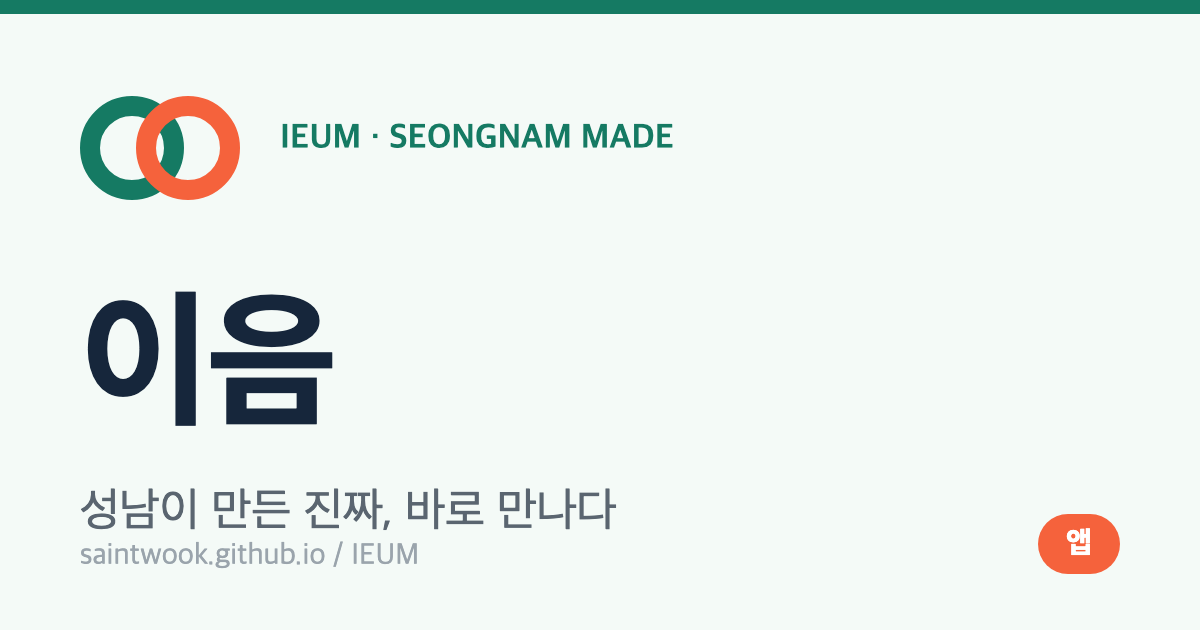
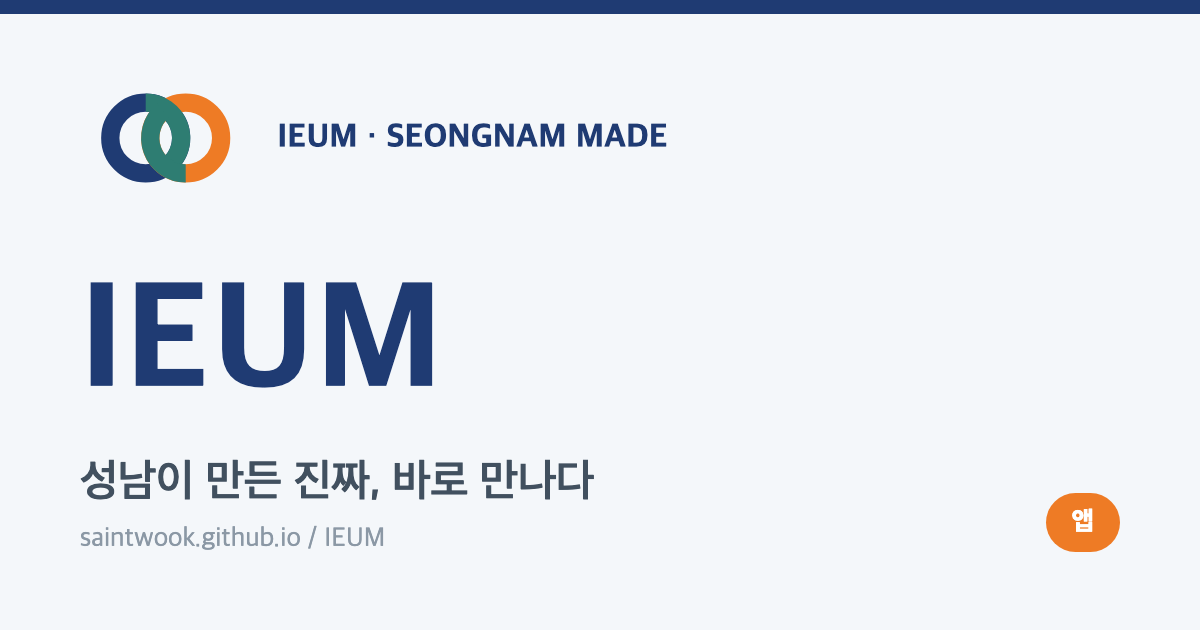
IEUM: 조합 공식 로고(남색·청록·주황 인터로킹) 적용 + 워드마크 영문 IEUM 전환
- 기존 두 원(초록/코랄) 마크 -> 실물 CI 기반 SVG 마크로 교체 (통합몰/OS/포털/관리자)
- 브랜드 표기 한글 '이음' -> 영문 IEUM (title, og, 헤더, 푸터, LIVE/WORK/PARTNER/ADMIN)
- CI 컬러 정렬: navy #1F3B73, teal #2E7D72, orange #EE7B25
- 앱 아이콘/OG 썸네일 재생성

diff --git a/index.html b/index.html
@@ -3,10 +3,10 @@
 <head>
 <meta charset="utf-8">
 <meta name="viewport" content="width=device-width, initial-scale=1, viewport-fit=cover">
-<title>이음 (IEUM)</title>
+<title>IEUM — 성남산단 상생 커머스</title>
 <meta property="og:type" content="website">
-<meta property="og:site_name" content="이음 IEUM">
-<meta property="og:title" content="이음 — 성남산단 상생 커머스">
+<meta property="og:site_name" content="IEUM">
+<meta property="og:title" content="IEUM — 성남산단 상생 커머스">
 <meta property="og:description" content="성남이 만든 진짜, 바로 만나다 · 산단 3,658개 기업 직거래 + 라이브">
 <meta property="og:image" content="https://saintwook.github.io/IEUM/og_app.png">
 <meta property="og:image:width" content="1200">
@@ -14,18 +14,18 @@
 <meta property="og:url" content="https://saintwook.github.io/IEUM/">
 <meta name="twitter:card" content="summary_large_image">
 
-<meta name="description" content="성남산단 상생 커머스 플랫폼 이음 — 사람과 기업을 잇다">
-<meta name="theme-color" content="#16263b">
+<meta name="description" content="성남산단 상생 커머스 플랫폼 IEUM — 사람과 기업을 잇다">
+<meta name="theme-color" content="#1F3B73">
 <link rel="manifest" href="manifest.json">
 <link rel="apple-touch-icon" href="apple-touch-icon.png">
 <link rel="icon" href="icon-192.png">
 <meta name="apple-mobile-web-app-capable" content="yes">
 <meta name="mobile-web-app-capable" content="yes">
 <meta name="apple-mobile-web-app-status-bar-style" content="black-translucent">
-<meta name="apple-mobile-web-app-title" content="이음">
+<meta name="apple-mobile-web-app-title" content="IEUM">
 <style>
 :root{
-  --navy:#16263b; --green:#157a63; --greenL:#e3f0eb; --coral:#f5623c; --coralL:#fff0ea;
+  --navy:#1F3B73; --green:#2E7D72; --greenL:#e3f0eb; --coral:#EE7B25; --coralL:#fff0ea;
   --sand:#f4f1ec; --ink:#20272e; --muted:#7a848d; --line:#e6e9ec; --bg:#f7f8f9; --card:#fff;
 }
 *{box-sizing:border-box;margin:0;padding:0}
@@ -42,8 +42,7 @@ a{color:inherit}
 .protobar button{background:#24384f;color:#cdd8e2;border-radius:20px;padding:6px 15px;font-size:13px;font-weight:600;display:flex;align-items:center;gap:6px}
 .protobar button.on{background:var(--coral);color:#fff}
 .protobar .brand{display:flex;align-items:center;gap:0;font-weight:800;font-size:16px;margin-right:14px}
-.ring{display:inline-block;width:16px;height:16px;border-radius:50%;border:3px solid var(--green)}
-.ring2{width:16px;height:16px;border:3px solid var(--coral);margin-left:-7px;margin-right:7px}
+.mark{height:1.6em;width:auto;display:inline-block;margin-right:9px;vertical-align:-.45em;flex:none}.mark .nv{stroke:#1F3B73}.mark .or{stroke:#EE7B25}.mark .tl{stroke:#2E7D72}.mark-dark .nv{stroke:#fff}
 .rdot{width:8px;height:8px;border-radius:50%;background:var(--coral);display:inline-block}
 .on .rdot{background:#fff}
 
@@ -61,7 +60,7 @@ a{color:inherit}
 .icobtn{background:var(--bg);border-radius:50%;width:38px;height:38px;display:flex;align-items:center;justify-content:center;position:relative}
 .cartbadge{position:absolute;top:-3px;right:-3px;background:var(--coral);color:#fff;font-size:10px;font-weight:800;min-width:17px;height:17px;border-radius:9px;display:flex;align-items:center;justify-content:center;padding:0 4px}
 
-.hero{background:linear-gradient(120deg,#0f5c4a,#157a63 55%,#1f8f74);color:#fff;border-radius:18px;padding:34px 32px;position:relative;overflow:hidden}
+.hero{background:linear-gradient(120deg,#0f5c4a,#2E7D72 55%,#1f8f74);color:#fff;border-radius:18px;padding:34px 32px;position:relative;overflow:hidden}
 .hero .tag{display:inline-block;background:rgba(255,255,255,.16);padding:4px 12px;border-radius:20px;font-size:12px;font-weight:600;margin-bottom:12px}
 .hero h1{font-size:30px;font-weight:800;letter-spacing:-.5px;line-height:1.25}
 .hero p{margin-top:8px;color:#d5ede5;font-size:14px}
@@ -265,7 +264,7 @@ table.stl{min-width:520px}
 <body>
 
 <div class="protobar">
-  <span class="brand"><span class="ring"></span><span class="ring2"></span>이음</span>
+  <span class="brand"><svg class="mark mark-dark" viewBox="0 0 300 210" fill="none" stroke-width="32" aria-hidden="true"><circle class="nv" cx="115" cy="105" r="62"/><circle class="or" cx="185" cy="105" r="62"/><path class="tl" d="M115 43A62 62 0 0 1 154.9 152.5"/><path class="tl" d="M185 167A62 62 0 0 1 145.1 57.5"/></svg>IEUM</span>
   <span class="lbl">화면 미리보기</span>
   <button class="on" data-v="shop" onclick="sw('shop',this)">통합몰</button>
   <button data-v="live" onclick="sw('live',this)"><span class="rdot"></span>라이브</button>
@@ -277,7 +276,7 @@ table.stl{min-width:520px}
 <!-- ============ 통합몰 ============ -->
 <section id="shop" class="view on">
   <div class="shop-head"><div class="in">
-    <div class="logo" onclick="sw('shop',document.querySelector('[data-v=shop]'))"><span class="ring"></span><span class="ring2"></span>이음</div>
+    <div class="logo" onclick="sw('shop',document.querySelector('[data-v=shop]'))"><svg class="mark" viewBox="0 0 300 210" fill="none" stroke-width="32" aria-hidden="true"><circle class="nv" cx="115" cy="105" r="62"/><circle class="or" cx="185" cy="105" r="62"/><path class="tl" d="M115 43A62 62 0 0 1 154.9 152.5"/><path class="tl" d="M185 167A62 62 0 0 1 145.1 57.5"/></svg>IEUM</div>
     <div class="search">성남이 만든 우수 제품을 검색하세요</div>
     <button class="icobtn"><svg class="svgico" viewBox="0 0 24 24"><path d="M18 8a6 6 0 0 0-12 0c0 7-3 9-3 9h18s-3-2-3-9M13.7 21a2 2 0 0 1-3.4 0"/></svg></button>
     <button class="icobtn" onclick="openCart()"><svg class="svgico" viewBox="0 0 24 24"><circle cx="9" cy="21" r="1"/><circle cx="20" cy="21" r="1"/><path d="M1 1h4l2.7 13.4a2 2 0 0 0 2 1.6h9.7a2 2 0 0 0 2-1.6L23 6H6"/></svg><span class="cartbadge" id="cartBadge" style="display:none">0</span></button>
@@ -291,7 +290,7 @@ table.stl{min-width:520px}
       <div class="rings"><span style="width:200px;height:200px;right:20px;top:10px"></span><span style="width:120px;height:120px;right:120px;top:80px"></span></div>
       <span class="tag">SEONGNAM MADE · 산단 직거래</span>
       <h1>성남이 만든 진짜,<br>바로 만나다.</h1>
-      <p>3,658개 산단 기업의 우수 완제품을 중간유통 없이 — 이음</p>
+      <p>3,658개 산단 기업의 우수 완제품을 중간유통 없이 — IEUM</p>
       <button class="cta" onclick="toast('이번주 라이브 기획전으로 이동합니다')">이번주 기획전 보기 →</button>
     </div>
 
@@ -323,7 +322,7 @@ table.stl{min-width:520px}
     <div class="sec-t">오늘의 추천 상품 <span style="font-size:12px;font-weight:500;color:var(--muted)">— 상품을 눌러 상세 페이지를 보세요</span></div>
     <div class="grid" id="prodGrid"></div>
 
-    <div class="foot">이음 (IEUM) · 성남상생협동조합 운영 · 사람과 기업을 잇다 &nbsp;|&nbsp; 프로토타입 화면입니다</div>
+    <div class="foot">IEUM · 성남상생협동조합 운영 · 사람과 기업을 잇다 &nbsp;|&nbsp; 프로토타입 화면입니다</div>
   </div>
 </section>
 
@@ -387,7 +386,7 @@ table.stl{min-width:520px}
   <div class="done">
     <div class="ok"><svg width="30" height="30" viewBox="0 0 24 24" fill="none" stroke="currentColor" stroke-width="3" stroke-linecap="round" stroke-linejoin="round"><path d="M4 12l5 5L20 6"/></svg></div>
     <h2>주문이 완료되었습니다</h2>
-    <p>이음에서 성남 우수 제품을 구매해 주셔서 감사합니다.</p>
+    <p>IEUM에서 성남 우수 제품을 구매해 주셔서 감사합니다.</p>
     <div class="num">주문번호 IEUM-2026-000312</div>
     <p style="font-size:12px">이 주문의 매출·정산은 관리자·입점기업 화면에 자동 반영됩니다.</p>
     <button class="checkout" style="max-width:260px;margin:18px auto 0" onclick="sw('shop',document.querySelector('[data-v=shop]'))">계속 쇼핑하기</button>
@@ -396,7 +395,7 @@ table.stl{min-width:520px}
 
 <!-- ============ 라이브 ============ -->
 <section id="live" class="view">
-  <div class="ptitle" style="margin-top:16px">이음 LIVE — 실시간 판매</div>
+  <div class="ptitle" style="margin-top:16px">IEUM LIVE — 실시간 판매</div>
   <div class="phones">
     <div class="phone"><div class="notch"></div><div class="scr">
       <div class="lv-video">
@@ -411,7 +410,7 @@ table.stl{min-width:520px}
       <div class="lv-chat">
         <div class="m"><b>소비자1</b> 저번에 사고 재구매해요!</div>
         <div class="m"><b>소비자2</b> 배송 얼마나 걸리나요?</div>
-        <div class="m"><b>이음</b> 오늘 주문 시 내일 출고됩니다</div>
+        <div class="m"><b>IEUM</b> 오늘 주문 시 내일 출고됩니다</div>
       </div>
     </div></div>
     <div style="max-width:320px">
@@ -419,7 +418,7 @@ table.stl{min-width:520px}
         <h3>이 화면의 작동 원리</h3>
         <ul style="font-size:13px;color:#44505c;line-height:1.7;padding-left:18px">
           <li><b>영상</b>은 네이버쇼핑라이브·그립을 <b>임베드</b> (자체 개발 X)</li>
-          <li><b>‘바로 구매’ 주문</b>은 이음 <b>정산 코어</b>로 수집</li>
+          <li><b>‘바로 구매’ 주문</b>은 IEUM <b>정산 코어</b>로 수집</li>
           <li>재고 자동 차감 · <b>방송별 매출·정산</b> 자동 집계</li>
           <li>방송 종료 시 → 관리자 화면에 기업별 정산 반영</li>
         </ul>
@@ -431,11 +430,11 @@ table.stl{min-width:520px}
 
 <!-- ============ 복지몰 ============ -->
 <section id="work" class="view">
-  <div class="ptitle" style="margin-top:16px">이음 워크 — 근로자 복지몰</div>
+  <div class="ptitle" style="margin-top:16px">IEUM WORK — 근로자 복지몰</div>
   <div class="phones">
     <div class="phone"><div class="notch"></div><div class="scr">
       <div class="wk-top">
-        <div><div class="t">이음 워크</div><div class="s">홍길동님 · ㈜위생기업사</div></div>
+        <div><div class="t">IEUM WORK</div><div class="s">홍길동님 · ㈜위생기업사</div></div>
         <div class="cert">근로자<br>인증완료</div>
       </div>
       <div class="wk-note"><b>성남사랑상품권 결제 가능</b><p>복지포인트 사용은 추후 오픈 예정 (법률검토 후)</p></div>
@@ -466,7 +465,7 @@ table.stl{min-width:520px}
 <section id="portal" class="view">
   <div class="admin">
     <div class="side">
-      <div class="lg"><span class="ring"></span><span class="ring2"></span>이음 PARTNER</div>
+      <div class="lg"><svg class="mark" viewBox="0 0 300 210" fill="none" stroke-width="32" aria-hidden="true"><circle class="nv" cx="115" cy="105" r="62"/><circle class="or" cx="185" cy="105" r="62"/><path class="tl" d="M115 43A62 62 0 0 1 154.9 152.5"/><path class="tl" d="M185 167A62 62 0 0 1 145.1 57.5"/></svg>IEUM PARTNER</div>
       <a>대시보드</a><a class="on">내 상품·재고</a><a>주문·CS</a><a>정산·세금계산서</a><a>입점 신청</a>
     </div>
     <div class="main">
@@ -508,7 +507,7 @@ table.stl{min-width:520px}
 <section id="admin" class="view">
   <div class="admin">
     <div class="side">
-      <div class="lg"><span class="ring"></span><span class="ring2"></span>이음 ADMIN</div>
+      <div class="lg"><svg class="mark" viewBox="0 0 300 210" fill="none" stroke-width="32" aria-hidden="true"><circle class="nv" cx="115" cy="105" r="62"/><circle class="or" cx="185" cy="105" r="62"/><path class="tl" d="M115 43A62 62 0 0 1 154.9 152.5"/><path class="tl" d="M185 167A62 62 0 0 1 145.1 57.5"/></svg>IEUM ADMIN</div>
       <a>대시보드</a><a>입점기업 관리</a><a>상품·SKU</a><a>주문·재고</a><a class="on">정산·세금계산서</a><a>라이브 편성</a><a>데이터 리포트</a>
     </div>
     <div class="main">
@@ -557,14 +556,14 @@ table.stl{min-width:520px}
 // ---- 상품 이미지 (SVG 일러스트, 타일 꽉 채움) ----
 var A="<svg viewBox='0 0 120 100' preserveAspectRatio='xMidYMid slice' xmlns='http://www.w3.org/2000/svg'>";
 var IMG={
- det:A+"<rect width='120' height='100' fill='#e3f0eb'/><rect x='38' y='30' width='12' height='7' rx='2' fill='#16263b'/><path d='M50 31 h10 v6 h-14 z' fill='#16263b'/><rect x='56' y='19' width='16' height='9' rx='2' fill='#16263b'/><rect x='60' y='27' width='8' height='7' fill='#16263b'/><rect x='50' y='33' width='28' height='53' rx='8' fill='#157a63'/><rect x='55' y='48' width='18' height='27' rx='3' fill='#fff'/><rect x='58' y='53' width='12' height='3' rx='1.5' fill='#a9cfc3'/><rect x='58' y='59' width='12' height='3' rx='1.5' fill='#a9cfc3'/><rect x='58' y='65' width='8' height='3' rx='1.5' fill='#a9cfc3'/></svg>",
+ det:A+"<rect width='120' height='100' fill='#e3f0eb'/><rect x='38' y='30' width='12' height='7' rx='2' fill='#1F3B73'/><path d='M50 31 h10 v6 h-14 z' fill='#1F3B73'/><rect x='56' y='19' width='16' height='9' rx='2' fill='#1F3B73'/><rect x='60' y='27' width='8' height='7' fill='#1F3B73'/><rect x='50' y='33' width='28' height='53' rx='8' fill='#2E7D72'/><rect x='55' y='48' width='18' height='27' rx='3' fill='#fff'/><rect x='58' y='53' width='12' height='3' rx='1.5' fill='#a9cfc3'/><rect x='58' y='59' width='12' height='3' rx='1.5' fill='#a9cfc3'/><rect x='58' y='65' width='8' height='3' rx='1.5' fill='#a9cfc3'/></svg>",
  tissue:A+"<rect width='120' height='100' fill='#eaf1fb'/><g stroke='#d3def0' stroke-width='1'><rect x='33' y='47' width='23' height='37' rx='3' fill='#fff'/><ellipse cx='44.5' cy='47' rx='11.5' ry='4' fill='#f4f8ff'/><rect x='64' y='47' width='23' height='37' rx='3' fill='#fff'/><ellipse cx='75.5' cy='47' rx='11.5' ry='4' fill='#f4f8ff'/><rect x='48' y='30' width='24' height='37' rx='3' fill='#fff'/><ellipse cx='60' cy='30' rx='12' ry='4.2' fill='#eef4ff'/></g><ellipse cx='60' cy='30' rx='4' ry='1.6' fill='#cdd9ec'/></svg>",
- probiotic:A+"<rect width='120' height='100' fill='#eaf7f0'/><rect x='49' y='25' width='22' height='8' rx='2' fill='#2d8a72'/><rect x='45' y='31' width='30' height='52' rx='6' fill='#3fae90'/><rect x='50' y='42' width='20' height='31' rx='3' fill='#fff'/><circle cx='60' cy='52' r='6' fill='#f5623c'/><rect x='53' y='63' width='14' height='2.6' rx='1.3' fill='#bfe0d4'/><rect x='53' y='68' width='10' height='2.6' rx='1.3' fill='#bfe0d4'/></svg>",
+ probiotic:A+"<rect width='120' height='100' fill='#eaf7f0'/><rect x='49' y='25' width='22' height='8' rx='2' fill='#2d8a72'/><rect x='45' y='31' width='30' height='52' rx='6' fill='#3fae90'/><rect x='50' y='42' width='20' height='31' rx='3' fill='#fff'/><circle cx='60' cy='52' r='6' fill='#EE7B25'/><rect x='53' y='63' width='14' height='2.6' rx='1.3' fill='#bfe0d4'/><rect x='53' y='68' width='10' height='2.6' rx='1.3' fill='#bfe0d4'/></svg>",
  ginseng:A+"<rect width='120' height='100' fill='#fbf1e0'/><rect x='79' y='38' width='7' height='40' rx='3.5' fill='#9a4426'/><rect x='41' y='30' width='33' height='50' rx='3' fill='#b5462a'/><rect x='41' y='30' width='33' height='14' rx='3' fill='#c85a3c'/><rect x='47' y='50' width='21' height='22' rx='2' fill='#f3e2c8'/><circle cx='57.5' cy='61' r='5.5' fill='#b5462a'/></svg>",
- powerstrip:A+"<rect width='120' height='100' fill='#eef1f4'/><rect x='28' y='42' width='60' height='19' rx='5' fill='#fff' stroke='#d0d5da'/><g fill='#16263b'><circle cx='41' cy='51.5' r='4.2'/><circle cx='58' cy='51.5' r='4.2'/><circle cx='75' cy='51.5' r='4.2'/></g><path d='M88 51 q13 0 13 13 v16' fill='none' stroke='#16263b' stroke-width='3.4'/></svg>",
- soap:A+"<rect width='120' height='100' fill='#fbeef1'/><rect x='37' y='57' width='46' height='17' rx='5' fill='#ef97ab'/><rect x='42' y='43' width='38' height='16' rx='5' fill='#ffd0da'/><rect x='47' y='29' width='30' height='16' rx='5' fill='#f5623c' opacity='0.82'/><circle cx='62' cy='37' r='3.4' fill='#fff' opacity='.6'/></svg>",
+ powerstrip:A+"<rect width='120' height='100' fill='#eef1f4'/><rect x='28' y='42' width='60' height='19' rx='5' fill='#fff' stroke='#d0d5da'/><g fill='#1F3B73'><circle cx='41' cy='51.5' r='4.2'/><circle cx='58' cy='51.5' r='4.2'/><circle cx='75' cy='51.5' r='4.2'/></g><path d='M88 51 q13 0 13 13 v16' fill='none' stroke='#1F3B73' stroke-width='3.4'/></svg>",
+ soap:A+"<rect width='120' height='100' fill='#fbeef1'/><rect x='37' y='57' width='46' height='17' rx='5' fill='#ef97ab'/><rect x='42' y='43' width='38' height='16' rx='5' fill='#ffd0da'/><rect x='47' y='29' width='30' height='16' rx='5' fill='#EE7B25' opacity='0.82'/><circle cx='62' cy='37' r='3.4' fill='#fff' opacity='.6'/></svg>",
  gloves:A+"<rect width='120' height='100' fill='#eaf1fb'/><g fill='#4a86da'><rect x='46' y='52' width='31' height='29' rx='6'/><rect x='47' y='37' width='6.5' height='19' rx='3'/><rect x='55.5' y='33' width='6.5' height='23' rx='3'/><rect x='64' y='35' width='6.5' height='21' rx='3'/><rect x='72.5' y='39' width='6.5' height='17' rx='3'/><rect x='39' y='53' width='9' height='15' rx='4'/></g><rect x='46' y='75' width='31' height='6' rx='3' fill='#2f6bc0'/></svg>",
- vitamin:A+"<rect width='120' height='100' fill='#eaf7f0'/><ellipse cx='39' cy='79' rx='7' ry='4' fill='#ffd08a'/><ellipse cx='81' cy='81' rx='7' ry='4' fill='#bfe0d4'/><rect x='50' y='27' width='20' height='9' rx='2' fill='#16263b'/><rect x='46' y='35' width='28' height='47' rx='6' fill='#f5623c'/><rect x='51' y='50' width='18' height='25' rx='2' fill='#fff'/><path d='M60 55 v15 M52.5 62.5 h15' stroke='#157a63' stroke-width='3.2'/></svg>"
+ vitamin:A+"<rect width='120' height='100' fill='#eaf7f0'/><ellipse cx='39' cy='79' rx='7' ry='4' fill='#ffd08a'/><ellipse cx='81' cy='81' rx='7' ry='4' fill='#bfe0d4'/><rect x='50' y='27' width='20' height='9' rx='2' fill='#1F3B73'/><rect x='46' y='35' width='28' height='47' rx='6' fill='#EE7B25'/><rect x='51' y='50' width='18' height='25' rx='2' fill='#fff'/><path d='M60 55 v15 M52.5 62.5 h15' stroke='#2E7D72' stroke-width='3.2'/></svg>"
 };
 // ---- 상품 데이터 (k = 이미지 키) ----
 var PRODUCTS=[

diff --git a/os/index.html b/os/index.html
@@ -3,10 +3,10 @@
 <head>
 <meta charset="utf-8">
 <meta name="viewport" content="width=device-width, initial-scale=1, viewport-fit=cover">
-<title>이음 OS — 스튜디오·폐쇄몰 운영 인트라넷</title>
+<title>IEUM OS — 스튜디오·폐쇄몰 운영 인트라넷</title>
 <meta property="og:type" content="website">
-<meta property="og:site_name" content="이음 IEUM">
-<meta property="og:title" content="이음 OS — 운영 인트라넷">
+<meta property="og:site_name" content="IEUM">
+<meta property="og:title" content="IEUM OS — 운영 인트라넷">
 <meta property="og:description" content="성남상생 라이브 스튜디오·폐쇄몰 운영 시스템 (센터엠 4층)">
 <meta property="og:image" content="https://saintwook.github.io/IEUM/os/og_os.png">
 <meta property="og:image:width" content="1200">
@@ -15,7 +15,7 @@
 <meta name="twitter:card" content="summary_large_image">
 
 <style>
-:root{--navy:#16263b;--green:#157a63;--greenL:#e8f3ef;--greenL2:#f2f9f6;--coral:#f5623c;--coralL:#fff0ea;--ink:#20272e;--muted:#7a848d;--line:#e6e9ec;--bg:#f5f7f8}
+:root{--navy:#1F3B73;--green:#2E7D72;--greenL:#e8f3ef;--greenL2:#f2f9f6;--coral:#EE7B25;--coralL:#fff0ea;--ink:#20272e;--muted:#7a848d;--line:#e6e9ec;--bg:#f5f7f8}
 *{box-sizing:border-box;margin:0;padding:0}
 body{font-family:"Apple SD Gothic Neo","Malgun Gothic",sans-serif;background:var(--bg);color:var(--ink);-webkit-font-smoothing:antialiased}
 button{font-family:inherit;cursor:pointer;border:none}
@@ -23,8 +23,7 @@ button{font-family:inherit;cursor:pointer;border:none}
 /* 사이드바 (밝게) */
 .side{background:#fff;border-right:1px solid var(--line);padding:16px 0;position:sticky;top:0;height:100vh;overflow-y:auto}
 .side .lg{display:flex;align-items:center;font-size:19px;font-weight:800;color:var(--navy);padding:4px 18px 4px}
-.ring{width:15px;height:15px;border-radius:50%;border:3px solid var(--green)}
-.ring2{width:15px;height:15px;border:3px solid var(--coral);margin-left:-7px;margin-right:6px}
+.mark{height:1.6em;width:auto;display:inline-block;margin-right:9px;vertical-align:-.45em;flex:none}.mark .nv{stroke:#1F3B73}.mark .or{stroke:#EE7B25}.mark .tl{stroke:#2E7D72}.mark-dark .nv{stroke:#fff}
 .side .os{font-size:11px;color:var(--muted);padding:0 18px 14px;margin-top:2px}
 .side .grp{font-size:10.5px;color:#a7b0b8;font-weight:700;padding:10px 18px 5px;letter-spacing:.3px}
 .side a{display:flex;align-items:center;gap:10px;padding:9px 18px;font-size:13.5px;color:#44505c;text-decoration:none;cursor:pointer;border-left:3px solid transparent}
@@ -101,7 +100,7 @@ td.r{text-align:right}
 <div class="app">
   <!-- 사이드바 -->
   <nav class="side">
-    <div class="lg"><span class="ring"></span><span class="ring2"></span>이음 OS</div>
+    <div class="lg"><svg class="mark" viewBox="0 0 300 210" fill="none" stroke-width="32" aria-hidden="true"><circle class="nv" cx="115" cy="105" r="62"/><circle class="or" cx="185" cy="105" r="62"/><path class="tl" d="M115 43A62 62 0 0 1 154.9 152.5"/><path class="tl" d="M185 167A62 62 0 0 1 145.1 57.5"/></svg>IEUM OS</div>
     <div class="os">스튜디오·폐쇄몰 운영</div>
     <div class="grp">운영</div>
     <a class="on" data-v="dash" onclick="go('dash',this)"><svg class="ic" viewBox="0 0 24 24"><rect x="3" y="3" width="7" height="7"/><rect x="14" y="3" width="7" height="7"/><rect x="3" y="14" width="7" height="7"/><rect x="14" y="14" width="7" height="7"/></svg>대시보드</a>
@@ -141,9 +140,9 @@ td.r{text-align:right}
           <div class="panel" style="margin-top:0">
             <h3>오늘 방송 편성 <span class="more">스튜디오 편성 &gt;</span></h3>
             <div class="list">
-              <div class="it"><span class="tt">11:00</span><span class="dotc" style="background:#157a63"></span><b>주방 스튜디오</b> · 위생기업사 친환경 생활용품 <span class="st live" style="margin-left:auto">진행중</span></div>
+              <div class="it"><span class="tt">11:00</span><span class="dotc" style="background:#2E7D72"></span><b>주방 스튜디오</b> · 위생기업사 친환경 생활용품 <span class="st live" style="margin-left:auto">진행중</span></div>
               <div class="it"><span class="tt">14:00</span><span class="dotc" style="background:#2f6bc0"></span><b>패션 스튜디오</b> · 한보텍스타일 니트 신상 <span class="st mut" style="margin-left:auto">예정</span></div>
-              <div class="it"><span class="tt">16:00</span><span class="dotc" style="background:#f5623c"></span><b>뷰티 스튜디오</b> · 그린명품제약 이너뷰티 <span class="st mut" style="margin-left:auto">예정</span></div>
+              <div class="it"><span class="tt">16:00</span><span class="dotc" style="background:#EE7B25"></span><b>뷰티 스튜디오</b> · 그린명품제약 이너뷰티 <span class="st mut" style="margin-left:auto">예정</span></div>
             </div>
           </div>
           <div class="panel" style="margin-top:0">
@@ -240,7 +239,7 @@ td.r{text-align:right}
       <section id="settle" class="view">
         <div class="crumb">홈 / 정산 · 세금계산서 / 2026.07</div>
         <div class="panel" style="margin-top:0">
-          <h3>기업별 월 정산 <span class="more">자동 계산 · 이음 코어</span></h3>
+          <h3>기업별 월 정산 <span class="more">자동 계산 · IEUM 코어</span></h3>
           <table><thead><tr><th>입점업체</th><th class="r">매출액</th><th class="r">수수료</th><th class="r">환불차감</th><th class="r">정산액</th><th>세금계산서</th></tr></thead><tbody>
             <tr><td>위생기업사</td><td class="r">5,000,000</td><td class="r">500,000</td><td class="r">80,000</td><td class="r"><b>4,420,000</b></td><td><span class="st ok">발행완료</span></td></tr>
             <tr><td>한보텍스타일</td><td class="r">5,400,000</td><td class="r">540,000</td><td class="r">0</td><td class="r"><b>4,860,000</b></td><td><button class="rowbtn" onclick="issue(this)">발행</button></td></tr>
